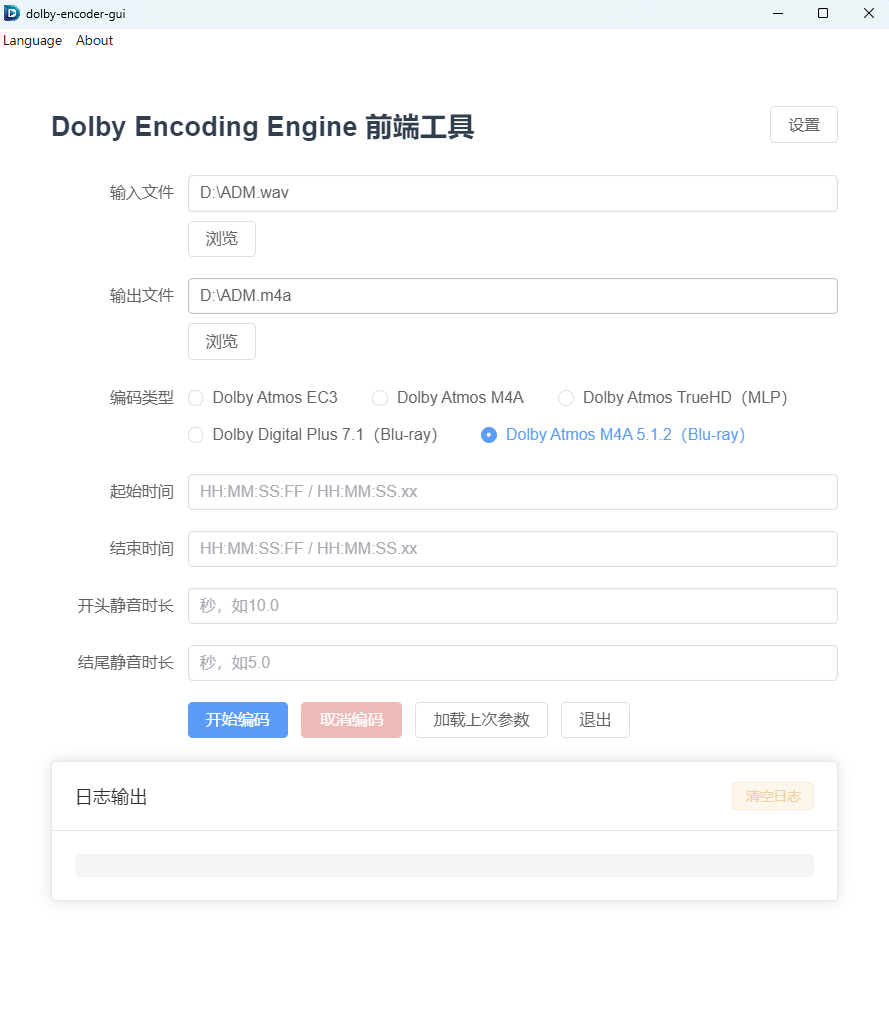
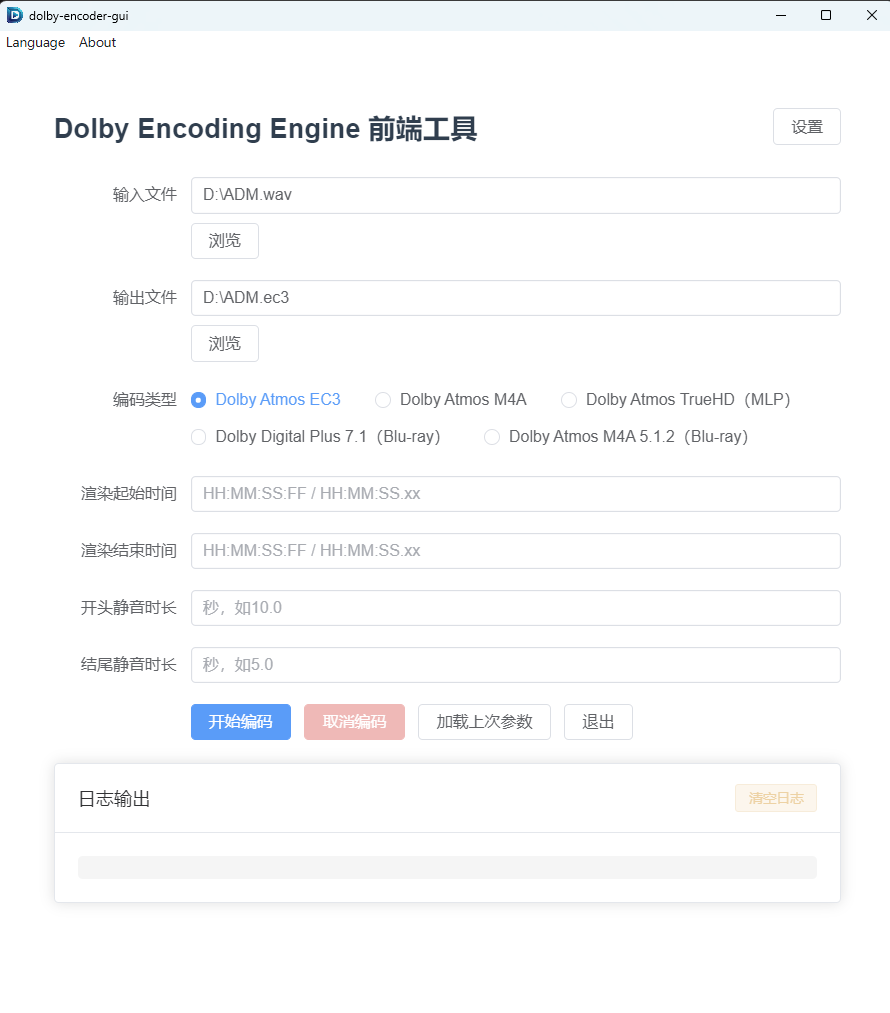
update c,screenshot,vue

diff --git a/src/App.vue b/src/App.vue
@@ -115,8 +115,8 @@ const messages = {
     optionTrueHD: 'Dolby Atmos TrueHD（MLP）',
     optionDDPBluRay: 'Dolby Digital Plus 7.1（Blu-ray）',
     optionAtmosBluRay: 'Dolby Atmos M4A 5.1.2（Blu-ray）',
-    startTime: '起始时间',
-    endTime: '结束时间',
+    startTime: '渲染起始时间',
+    endTime: '渲染结束时间',
     prependSilence: '开头静音时长',
     appendSilence: '结尾静音时长',
     startEncodingBtn: '开始编码',
@@ -173,8 +173,8 @@ const messages = {
     optionAtmosBluRay: 'Dolby Atmos M4A 5.1.2 (Blu-ray)',
     startTime: 'Start Time',
     endTime: 'End Time',
-    prependSilence: 'Leading Silence',
-    appendSilence: 'Trailing Silence',
+    prependSilence: 'Prepend Silence',
+    appendSilence: 'Append Silence',
     startEncodingBtn: 'Start Encoding',
     cancelEncodingBtn: 'Cancel Encoding',
     loadLastParamsBtn: 'Load Last Params',

diff --git a/encode.c b/encode.c
@@ -730,7 +730,7 @@ int main(int argc, char *argv[])
         printf("2. ADM BWF 编码为 atmos.m4a\n");
         printf("3. ADM BWF 编码为 atmos.mlp\n");
         printf("4. ADM BWF 编码为 7.1ch Dolby Digital Plus (Blu-ray)\n");
-        printf("5. ADM BWF 编码为 Dolby Atmos M4A 7.1 (Blu-ray)\n");
+        printf("5. ADM BWF 编码为 Dolby Atmos M4A 5.1.2 (Blu-ray)\n");
         printf("6. 重复上一次操作\n");
         printf("0. 退出程序\n");
         printf("请输入选项: ");
@@ -1134,7 +1134,7 @@ encode_process:
         remove_file_if_exists(inter_mll_path);
         remove_file_if_exists(inter_log_path);
     } else if (choice == 5) {
-        printf("dee 完成 MLP 导出，开始调用 deezy 生成 Dolby Atmos M4A 7.1 (Blu-ray)...\n");
+        printf("dee 完成 MLP 导出，开始调用 deezy 生成 Dolby Atmos M4A 5.1.2 (Blu-ray)...\n");
         if (!intermediate_mlp_path[0]) {
             replace_extension(final_output_path, intermediate_mlp_path, sizeof(intermediate_mlp_path), ".mlp");
         }
